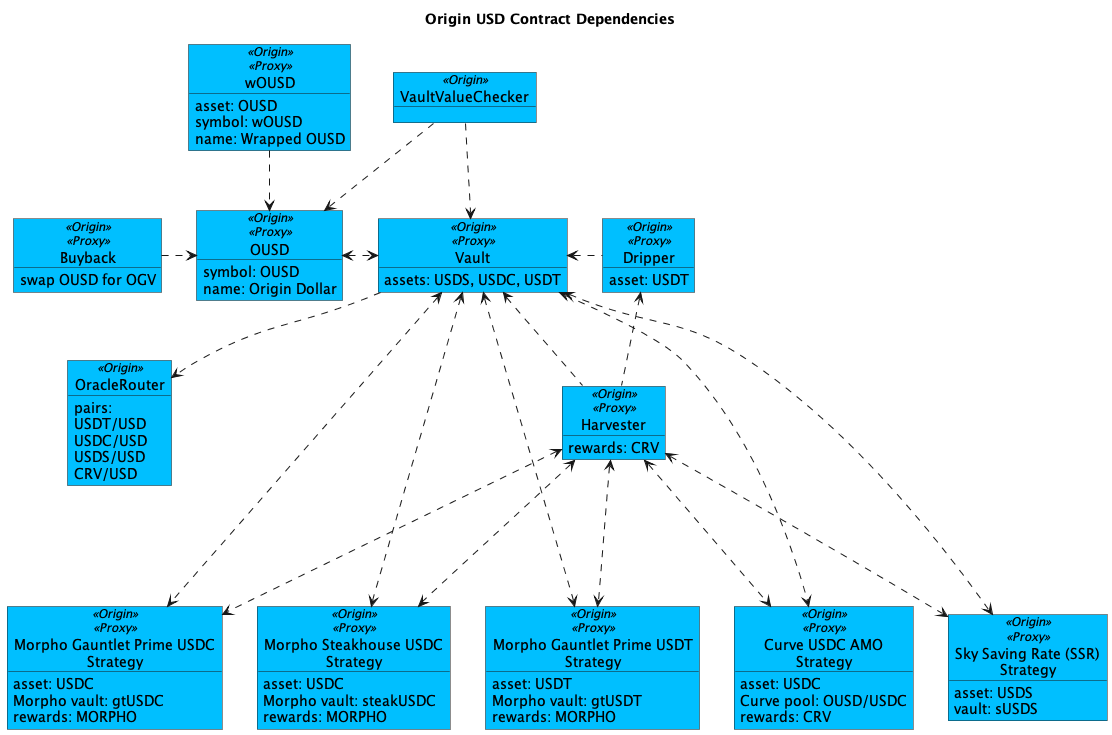
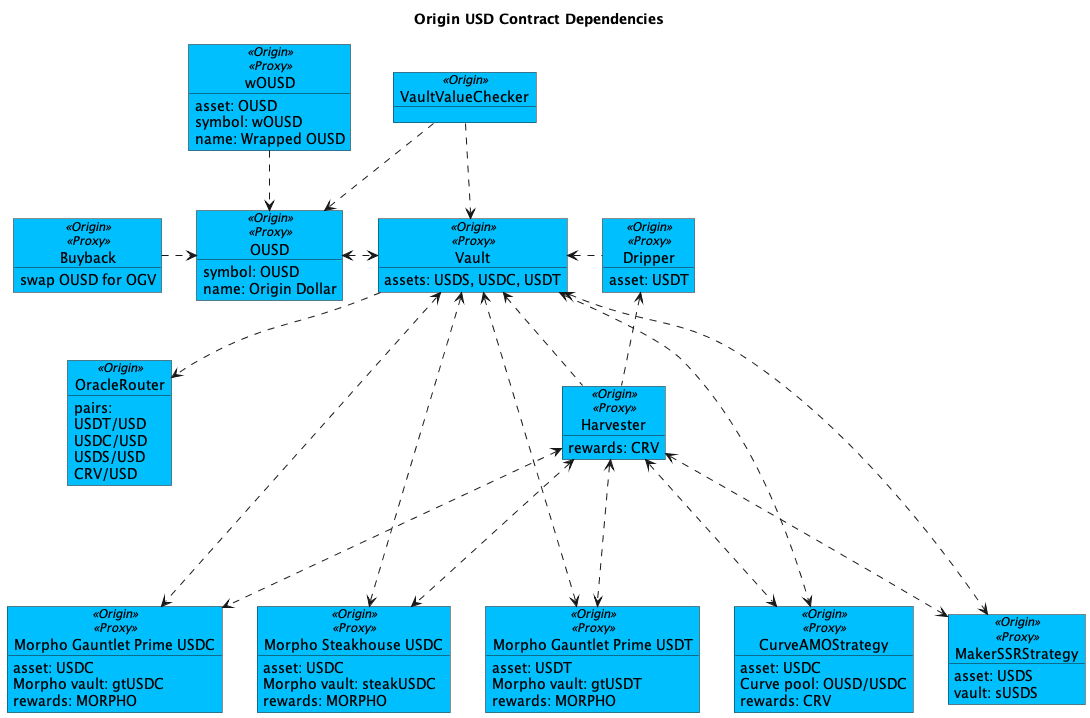
GITBOOK-393: No subject

diff --git a/registry/contracts/ousd-registry.md b/registry/contracts/ousd-registry.md
@@ -4,13 +4,13 @@ description: Contracts related to Origin Dollar
 
 # OUSD Registry
 
-Most of Origin's contracts are upgradable via a well-known proxy wrapper and an implementation contract. The Vault is split into VaultAdmin and VaultCore to work around the maximum contract size limit on Ethereum.
+Most of Origin's contracts are upgradable via a well-known proxy wrapper and an implementation contract.
 
-<figure><img src="../../.gitbook/assets/ousdContracts (2).png" alt=""><figcaption></figcaption></figure>
+<figure><img src="../../.gitbook/assets/ousdContracts.png" alt=""><figcaption><p>OUSD Contract Dependencies</p></figcaption></figure>
 
 #### Ethereum
 
-<table><thead><tr><th width="258">Contract</th><th>Address</th></tr></thead><tbody><tr><td>Origin Dollar (ERC-20)</td><td><a href="https://etherscan.io/address/0x2a8e1e676ec238d8a992307b495b45b3feaa5e86#code">0x2A8e1E676Ec238d8A992307B495b45B3fEAa5e86</a></td></tr><tr><td>Wrapped OUSD (ERC-4626)</td><td><a href="https://etherscan.io/token/0xD2af830E8CBdFed6CC11Bab697bB25496ed6FA62#code">0xD2af830E8CBdFed6CC11Bab697bB25496ed6FA62</a></td></tr><tr><td>Vault</td><td><a href="https://etherscan.io/address/0xe75d77b1865ae93c7eaa3040b038d7aa7bc02f70#code">0xE75D77B1865Ae93c7eaa3040B038D7aA7BC02F70</a></td></tr><tr><td>Curve USDC AMO Strategy</td><td><a href="https://etherscan.io/address/0x26a02ec47ACC2A3442b757F45E0A82B8e993Ce11">0x26a02ec47ACC2A3442b757F45E0A82B8e993Ce11</a></td></tr><tr><td>Morpho V2 Strategy</td><td><a href="https://etherscan.io/address/0x3643cafA6eF3dd7Fcc2ADaD1cabf708075AFFf6e">0x3643cafA6eF3dd7Fcc2ADaD1cabf708075AFFf6e</a></td></tr><tr><td>Morpho Gauntlet Prime USDC Strategy</td><td><a href="https://etherscan.io/address/0x2B8f37893EE713A4E9fF0cEb79F27539f20a32a1">0x2B8f37893EE713A4E9fF0cEb79F27539f20a32a1</a></td></tr><tr><td>Oracle Router</td><td><a href="https://etherscan.io/address/0x36CFB852d3b84afB3909BCf4ea0dbe8C82eE1C3c">0x36CFB852d3b84afB3909BCf4ea0dbe8C82eE1C3c</a></td></tr><tr><td>Curve Pool Booster Factory</td><td><a href="https://etherscan.io/address/0x8A8809D67E3193486dCF94Ad023978cBceed1723">0x8A8809D67E3193486dCF94Ad023978cBceed1723</a></td></tr><tr><td>CrossChainStrategy</td><td><a href="https://etherscan.io/address/0xB1d624fc40824683e2bFBEfd19eB208DbBE00866#code">Ethereum</a> <a href="https://basescan.org/address/0xB1d624fc40824683e2bFBEfd19eB208DbBE00866">Base</a></td></tr></tbody></table>
+<table><thead><tr><th width="258">Contract</th><th>Address</th></tr></thead><tbody><tr><td>Origin Dollar (ERC-20)</td><td><a href="https://etherscan.io/address/0x2a8e1e676ec238d8a992307b495b45b3feaa5e86#code">0x2A8e1E676Ec238d8A992307B495b45B3fEAa5e86</a></td></tr><tr><td>Wrapped OUSD (ERC-4626)</td><td><a href="https://etherscan.io/token/0xD2af830E8CBdFed6CC11Bab697bB25496ed6FA62#code">0xD2af830E8CBdFed6CC11Bab697bB25496ed6FA62</a></td></tr><tr><td>Vault</td><td><a href="https://etherscan.io/address/0xe75d77b1865ae93c7eaa3040b038d7aa7bc02f70#code">0xE75D77B1865Ae93c7eaa3040B038D7aA7BC02F70</a></td></tr><tr><td>Curve USDC AMO Strategy</td><td><a href="https://etherscan.io/address/0x26a02ec47ACC2A3442b757F45E0A82B8e993Ce11">0x26a02ec47ACC2A3442b757F45E0A82B8e993Ce11</a></td></tr><tr><td>Morpho V2 Strategy</td><td><a href="https://etherscan.io/address/0x3643cafA6eF3dd7Fcc2ADaD1cabf708075AFFf6e">0x3643cafA6eF3dd7Fcc2ADaD1cabf708075AFFf6e</a></td></tr><tr><td>Cross-Chain Strategy</td><td><a href="https://etherscan.io/address/0xB1d624fc40824683e2bFBEfd19eB208DbBE00866#code">Ethereum</a> <a href="https://basescan.org/address/0xB1d624fc40824683e2bFBEfd19eB208DbBE00866">Base</a></td></tr><tr><td>Oracle Router</td><td><a href="https://etherscan.io/address/0x36CFB852d3b84afB3909BCf4ea0dbe8C82eE1C3c">0x36CFB852d3b84afB3909BCf4ea0dbe8C82eE1C3c</a></td></tr><tr><td>Curve Pool Booster Factory</td><td><a href="https://etherscan.io/address/0x8A8809D67E3193486dCF94Ad023978cBceed1723">0x8A8809D67E3193486dCF94Ad023978cBceed1723</a></td></tr></tbody></table>
 
 OUSD is backed by the following collateral assets:
 
@@ -22,5 +22,5 @@ The following Chainlink oracles protect the vault if a backing asset loses value
 
 #### Deprecated
 
-<table><thead><tr><th width="259">Contract</th><th>Address</th></tr></thead><tbody><tr><td>Original OGN Staking</td><td><a href="https://etherscan.io/address/0x501804b374ef06fa9c427476147ac09f1551b9a0#code">0x501804B374EF06fa9C427476147ac09F1551B9A0</a></td></tr><tr><td>Original OGN Staking Implementation</td><td><a href="https://etherscan.io/address/0x8cd68a1e0b79150455c5498882d5d5d3df2dde08#code">0x8cD68A1E0b79150455C5498882d5d5D3DF2DdE08</a></td></tr><tr><td>OUSD Compensation</td><td><a href="https://etherscan.io/address/0x9c94df9d594ba1eb94430c006c269c314b1a8281#code">0x9C94df9d594BA1eb94430C006c269C314B1A8281</a></td></tr><tr><td>Old OUSD Vault</td><td><a href="https://etherscan.io/address/0x277e80f3e14e7fb3fc40a9d6184088e0241034bd#code">0x277e80f3E14E7fB3fc40A9d6184088e0241034bD</a></td></tr><tr><td>Old Buyback (1 of 2)</td><td><a href="https://etherscan.io/address/0x77314eb392b2be47c014cde0706908b3307ad6a9#code">0x77314EB392b2be47C014cde0706908b3307Ad6a9</a></td></tr><tr><td>Old Buyback (2 of 2)</td><td><a href="https://etherscan.io/address/0x6c5cdfb47150efc52072cb93eea1e0f123529748#code">0x6C5cdfB47150EFc52072cB93Eea1e0F123529748</a></td></tr><tr><td>Compound Strategy</td><td><a href="https://etherscan.io/address/0x9c459eeb3fa179a40329b81c1635525e9a0ef094#code">0x9c459eeb3FA179a40329b81C1635525e9A0Ef094</a></td></tr><tr><td>Convex DAI+USDC+USDT Strategy</td><td><a href="https://etherscan.io/address/0xea2ef2e2e5a749d4a66b41db9ad85a38aa264cb3#code">0xEA2Ef2e2E5A749D4A66b41Db9aD85a38Aa264cb3</a></td></tr><tr><td>Convex LUSD+3Crv Strategy</td><td><a href="https://etherscan.io/address/0x7a192dd9cc4ea9bdedec9992df74f1da55e60a19#code">0x7A192DD9Cc4Ea9bdEdeC9992df74F1DA55e60a19</a></td></tr><tr><td>Morpho Compound Strategy</td><td><a href="https://etherscan.io/address/0x5a4eee58744d1430876d5ca93cab5ccb763c037d#code">0x5A4eEe58744D1430876d5cA93cAB5CcB763C037D</a></td></tr><tr><td>Convex OUSD+3Crv (AMO)</td><td><a href="https://etherscan.io/address/0x89eb88fedc50fc77ae8a18aad1ca0ac27f777a90#code">0x89Eb88fEdc50FC77ae8a18aAD1cA0ac27f777a90</a></td></tr><tr><td>Aave Strategy</td><td><a href="https://etherscan.io/address/0x5e3646a1db86993f73e6b74a57d8640b69f7e259#code">0x5e3646A1Db86993f73E6b74A57D8640B69F7e259</a></td></tr><tr><td>Morpho Aave Strategy</td><td><a href="https://etherscan.io/address/0x79f2188ef9350a1dc11a062cca0abe90684b0197#code">0x79F2188EF9350A1dC11A062cca0abE90684b0197</a></td></tr><tr><td>Flux Strategy</td><td><a href="https://etherscan.io/address/0x76bf500b6305dc4ea851384d3d5502f1c7a0ed44#code">0x76Bf500B6305Dc4ea851384D3d5502f1C7a0ED44</a></td></tr><tr><td>Maker DSR Strategy</td><td><a href="https://etherscan.io/address/0x6b69b755c629590ed59618a2712d8a2957ca98fc#code">0x6b69B755C629590eD59618A2712d8a2957CA98FC</a></td></tr><tr><td>Morpho Gauntlet Prime USDT Strategy</td><td><a href="https://etherscan.io/address/0xe3ae7C80a1B02Ccd3FB0227773553AEB14e32F26">0xe3ae7C80a1B02Ccd3FB0227773553AEB14e32F26</a></td></tr><tr><td>SSR (Sky Saving Rate) Strategy</td><td><a href="https://etherscan.io/address/0x5Bd9AF9c2506D29B6d79cB878284A270190EaEAa">0x5Bd9AF9c2506D29B6d79cB878284A270190EaEAa</a></td></tr><tr><td>Harvester</td><td><a href="https://etherscan.io/address/0x21fb5812d70b3396880d30e90d9e5c1202266c89#code">0x21Fb5812D70B3396880D30e90D9e5C1202266c89</a></td></tr><tr><td>Buyback</td><td><a href="https://etherscan.io/address/0xd7b28d06365b85933c64e11e639ea0d3bc0e3bab#code">0xD7B28d06365b85933c64E11e639EA0d3bC0e3BaB</a></td></tr><tr><td>Flipper</td><td><a href="https://etherscan.io/address/0xcecad69d7d4ed6d52efcfa028af8732f27e08f70#code">0xcecaD69d7D4Ed6D52eFcFA028aF8732F27e08F70</a></td></tr><tr><td>Dripper</td><td><a href="https://etherscan.io/address/0x80c898ae5e56f888365e235ceb8cea3eb726cb58#code">0x80c898ae5e56f888365e235ceb8cea3eb726cb58</a></td></tr><tr><td>Morpho Steakhouse USDC Strategy</td><td><a href="https://etherscan.io/address/0x603CDEAEC82A60E3C4A10dA6ab546459E5f64Fa0">0x603CDEAEC82A60E3C4A10dA6ab546459E5f64Fa0</a></td></tr></tbody></table>
+<table><thead><tr><th width="259">Contract</th><th>Address</th></tr></thead><tbody><tr><td>Original OGN Staking</td><td><a href="https://etherscan.io/address/0x501804b374ef06fa9c427476147ac09f1551b9a0#code">0x501804B374EF06fa9C427476147ac09F1551B9A0</a></td></tr><tr><td>Original OGN Staking Implementation</td><td><a href="https://etherscan.io/address/0x8cd68a1e0b79150455c5498882d5d5d3df2dde08#code">0x8cD68A1E0b79150455C5498882d5d5D3DF2DdE08</a></td></tr><tr><td>OUSD Compensation</td><td><a href="https://etherscan.io/address/0x9c94df9d594ba1eb94430c006c269c314b1a8281#code">0x9C94df9d594BA1eb94430C006c269C314B1A8281</a></td></tr><tr><td>Old OUSD Vault</td><td><a href="https://etherscan.io/address/0x277e80f3e14e7fb3fc40a9d6184088e0241034bd#code">0x277e80f3E14E7fB3fc40A9d6184088e0241034bD</a></td></tr><tr><td>Old Buyback (1 of 2)</td><td><a href="https://etherscan.io/address/0x77314eb392b2be47c014cde0706908b3307ad6a9#code">0x77314EB392b2be47C014cde0706908b3307Ad6a9</a></td></tr><tr><td>Old Buyback (2 of 2)</td><td><a href="https://etherscan.io/address/0x6c5cdfb47150efc52072cb93eea1e0f123529748#code">0x6C5cdfB47150EFc52072cB93Eea1e0F123529748</a></td></tr><tr><td>Compound Strategy</td><td><a href="https://etherscan.io/address/0x9c459eeb3fa179a40329b81c1635525e9a0ef094#code">0x9c459eeb3FA179a40329b81C1635525e9A0Ef094</a></td></tr><tr><td>Convex DAI+USDC+USDT Strategy</td><td><a href="https://etherscan.io/address/0xea2ef2e2e5a749d4a66b41db9ad85a38aa264cb3#code">0xEA2Ef2e2E5A749D4A66b41Db9aD85a38Aa264cb3</a></td></tr><tr><td>Convex LUSD+3Crv Strategy</td><td><a href="https://etherscan.io/address/0x7a192dd9cc4ea9bdedec9992df74f1da55e60a19#code">0x7A192DD9Cc4Ea9bdEdeC9992df74F1DA55e60a19</a></td></tr><tr><td>Morpho Compound Strategy</td><td><a href="https://etherscan.io/address/0x5a4eee58744d1430876d5ca93cab5ccb763c037d#code">0x5A4eEe58744D1430876d5cA93cAB5CcB763C037D</a></td></tr><tr><td>Convex OUSD+3Crv (AMO)</td><td><a href="https://etherscan.io/address/0x89eb88fedc50fc77ae8a18aad1ca0ac27f777a90#code">0x89Eb88fEdc50FC77ae8a18aAD1cA0ac27f777a90</a></td></tr><tr><td>Aave Strategy</td><td><a href="https://etherscan.io/address/0x5e3646a1db86993f73e6b74a57d8640b69f7e259#code">0x5e3646A1Db86993f73E6b74A57D8640B69F7e259</a></td></tr><tr><td>Morpho Aave Strategy</td><td><a href="https://etherscan.io/address/0x79f2188ef9350a1dc11a062cca0abe90684b0197#code">0x79F2188EF9350A1dC11A062cca0abE90684b0197</a></td></tr><tr><td>Flux Strategy</td><td><a href="https://etherscan.io/address/0x76bf500b6305dc4ea851384d3d5502f1c7a0ed44#code">0x76Bf500B6305Dc4ea851384D3d5502f1C7a0ED44</a></td></tr><tr><td>Maker DSR Strategy</td><td><a href="https://etherscan.io/address/0x6b69b755c629590ed59618a2712d8a2957ca98fc#code">0x6b69B755C629590eD59618A2712d8a2957CA98FC</a></td></tr><tr><td>Morpho Gauntlet Prime USDT Strategy</td><td><a href="https://etherscan.io/address/0xe3ae7C80a1B02Ccd3FB0227773553AEB14e32F26">0xe3ae7C80a1B02Ccd3FB0227773553AEB14e32F26</a></td></tr><tr><td>SSR (Sky Saving Rate) Strategy</td><td><a href="https://etherscan.io/address/0x5Bd9AF9c2506D29B6d79cB878284A270190EaEAa">0x5Bd9AF9c2506D29B6d79cB878284A270190EaEAa</a></td></tr><tr><td>Harvester</td><td><a href="https://etherscan.io/address/0x21fb5812d70b3396880d30e90d9e5c1202266c89#code">0x21Fb5812D70B3396880D30e90D9e5C1202266c89</a></td></tr><tr><td>Buyback</td><td><a href="https://etherscan.io/address/0xd7b28d06365b85933c64e11e639ea0d3bc0e3bab#code">0xD7B28d06365b85933c64E11e639EA0d3bC0e3BaB</a></td></tr><tr><td>Flipper</td><td><a href="https://etherscan.io/address/0xcecad69d7d4ed6d52efcfa028af8732f27e08f70#code">0xcecaD69d7D4Ed6D52eFcFA028aF8732F27e08F70</a></td></tr><tr><td>Dripper</td><td><a href="https://etherscan.io/address/0x80c898ae5e56f888365e235ceb8cea3eb726cb58#code">0x80c898ae5e56f888365e235ceb8cea3eb726cb58</a></td></tr><tr><td>Morpho Steakhouse USDC Strategy</td><td><a href="https://etherscan.io/address/0x603CDEAEC82A60E3C4A10dA6ab546459E5f64Fa0">0x603CDEAEC82A60E3C4A10dA6ab546459E5f64Fa0</a></td></tr><tr><td>Morpho Gauntlet Prime USDC Strategy</td><td><a href="https://etherscan.io/address/0x2B8f37893EE713A4E9fF0cEb79F27539f20a32a1">0x2B8f37893EE713A4E9fF0cEb79F27539f20a32a1</a></td></tr></tbody></table>
 
